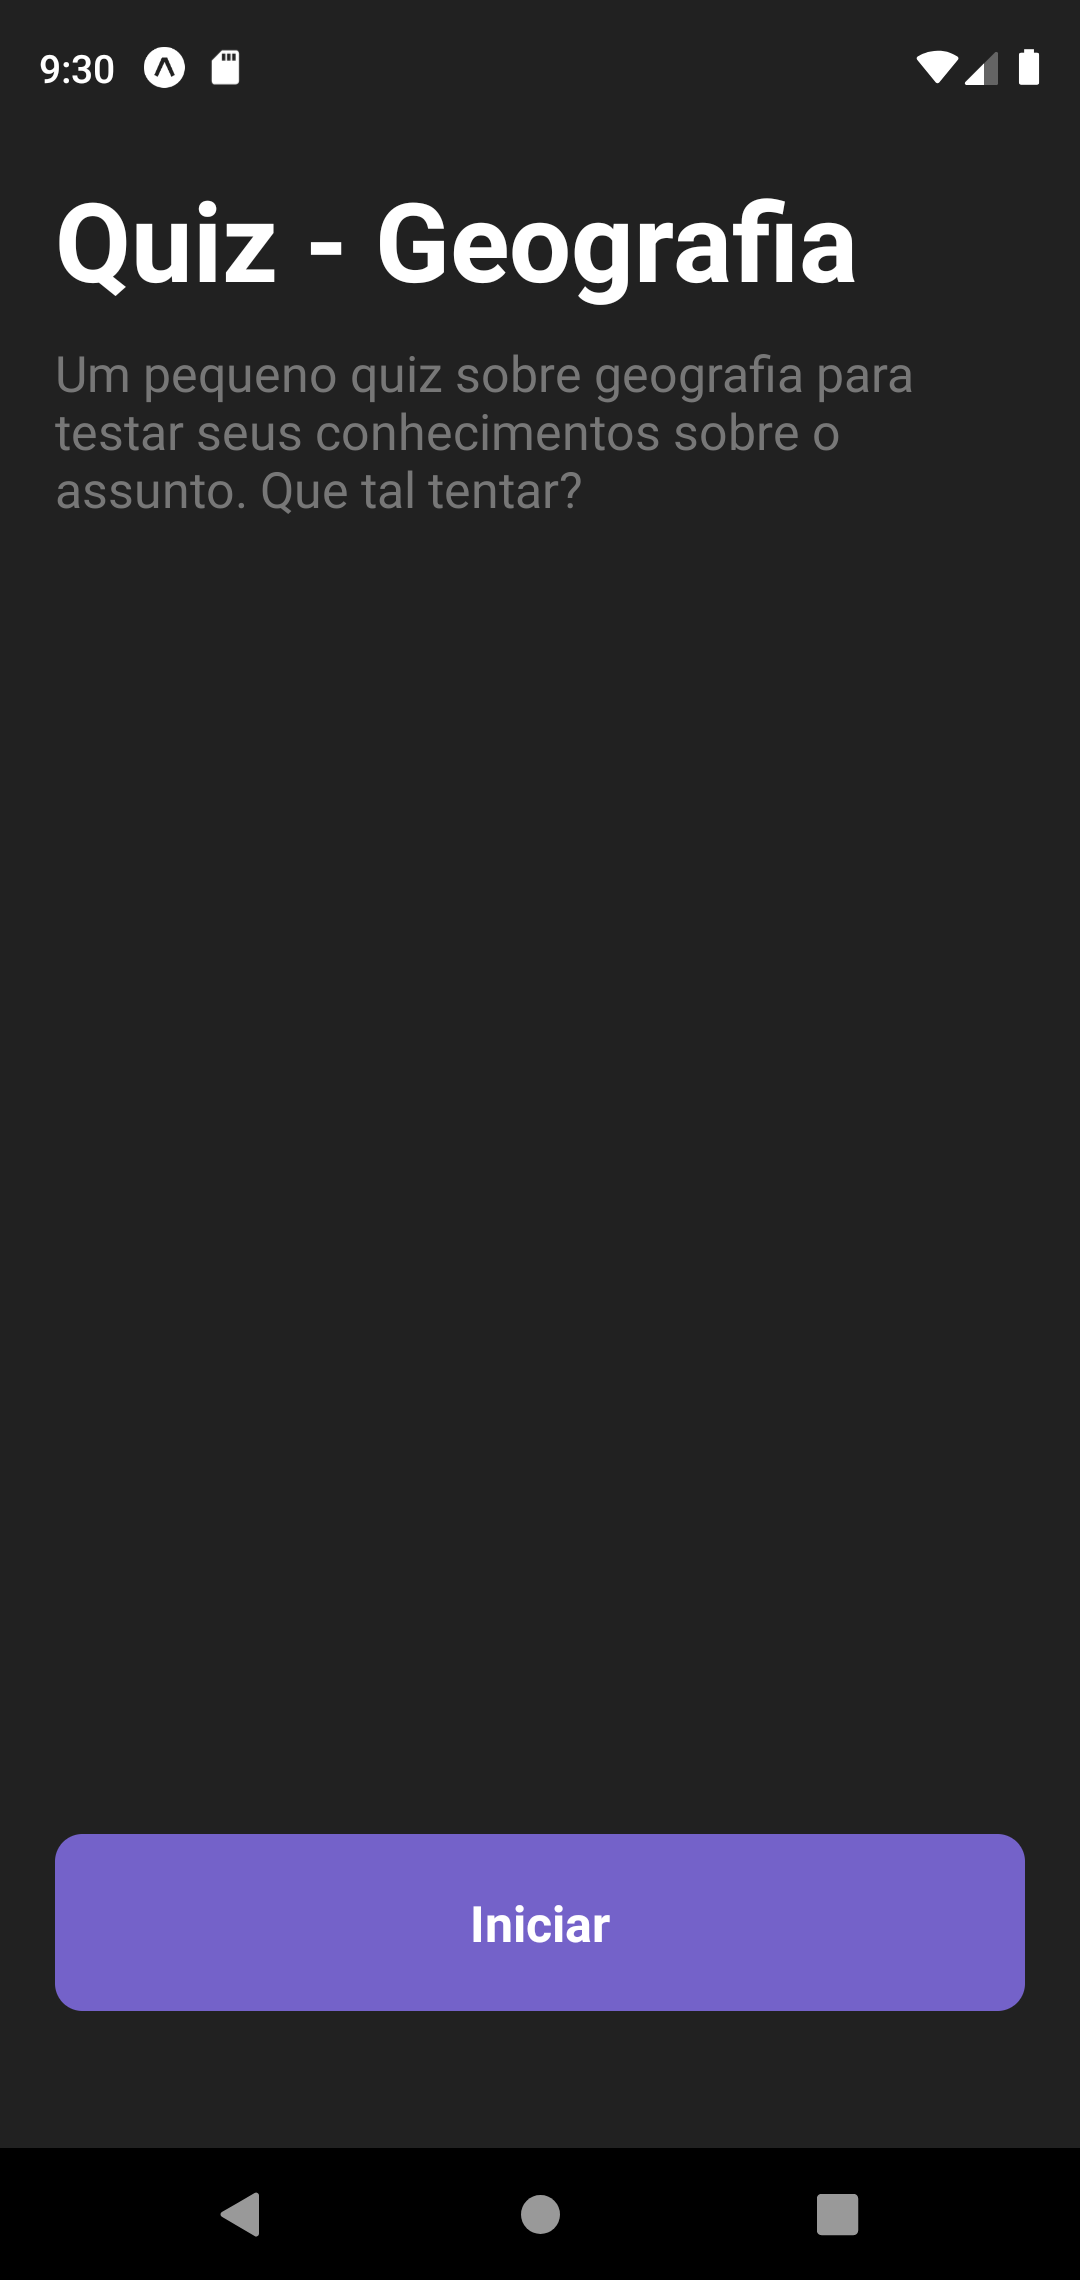
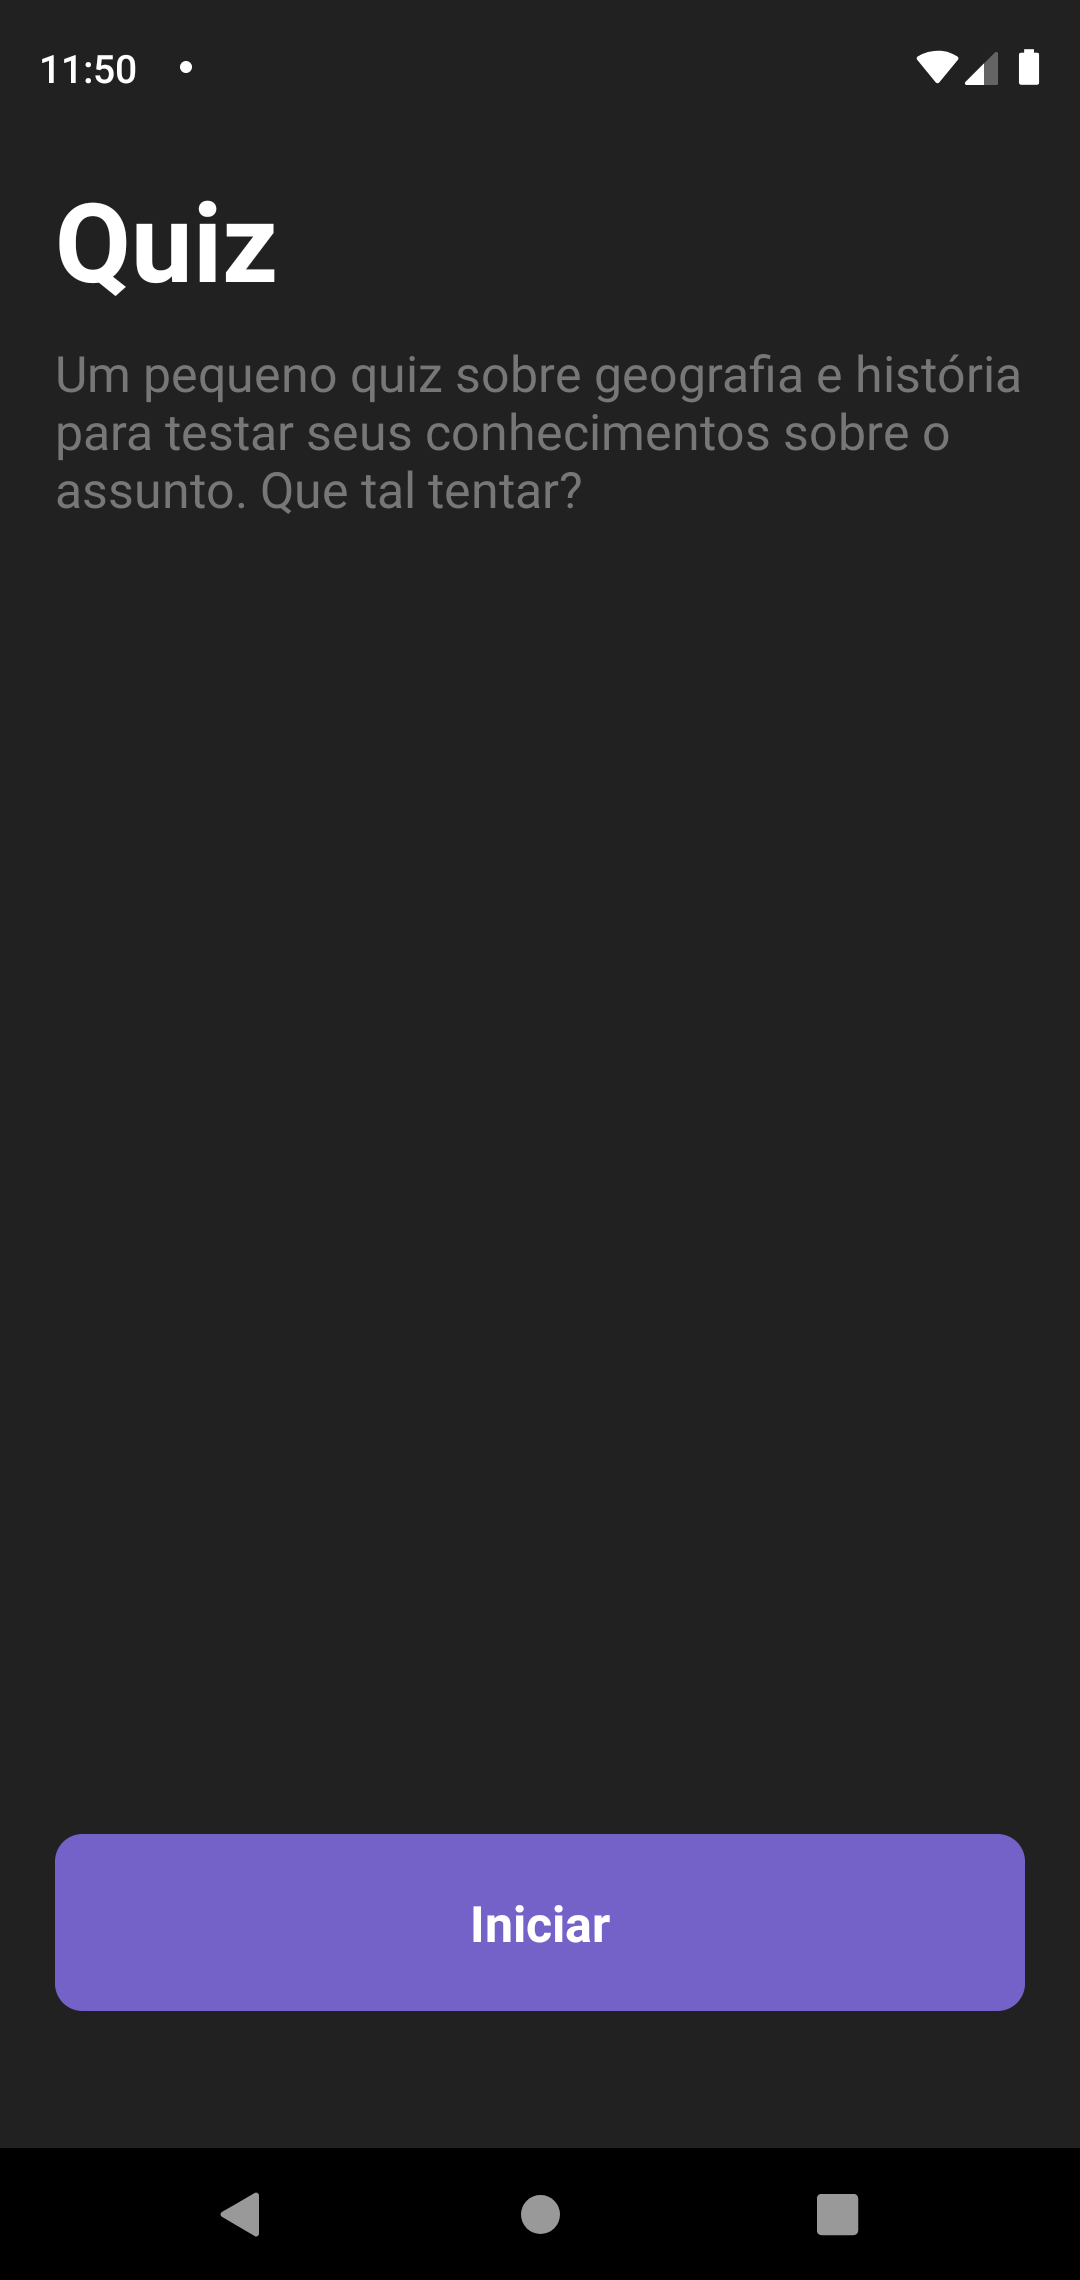
Change Home page text

diff --git a/src/pages/QuizInfoPage.tsx b/src/pages/QuizInfoPage.tsx
@@ -21,10 +21,10 @@ const QuizInfoPage = () => {
   return (
     <Container>
       <QuizContainer>
-        <Title>Quiz - Geografia</Title>
+        <Title>Quiz</Title>
         <Description>
-          Um pequeno quiz sobre geografia para testar seus conhecimentos sobre o
-          assunto. Que tal tentar?
+          Um pequeno quiz sobre geografia e história para testar seus
+          conhecimentos sobre o assunto. Que tal tentar?
         </Description>
       </QuizContainer>
 
